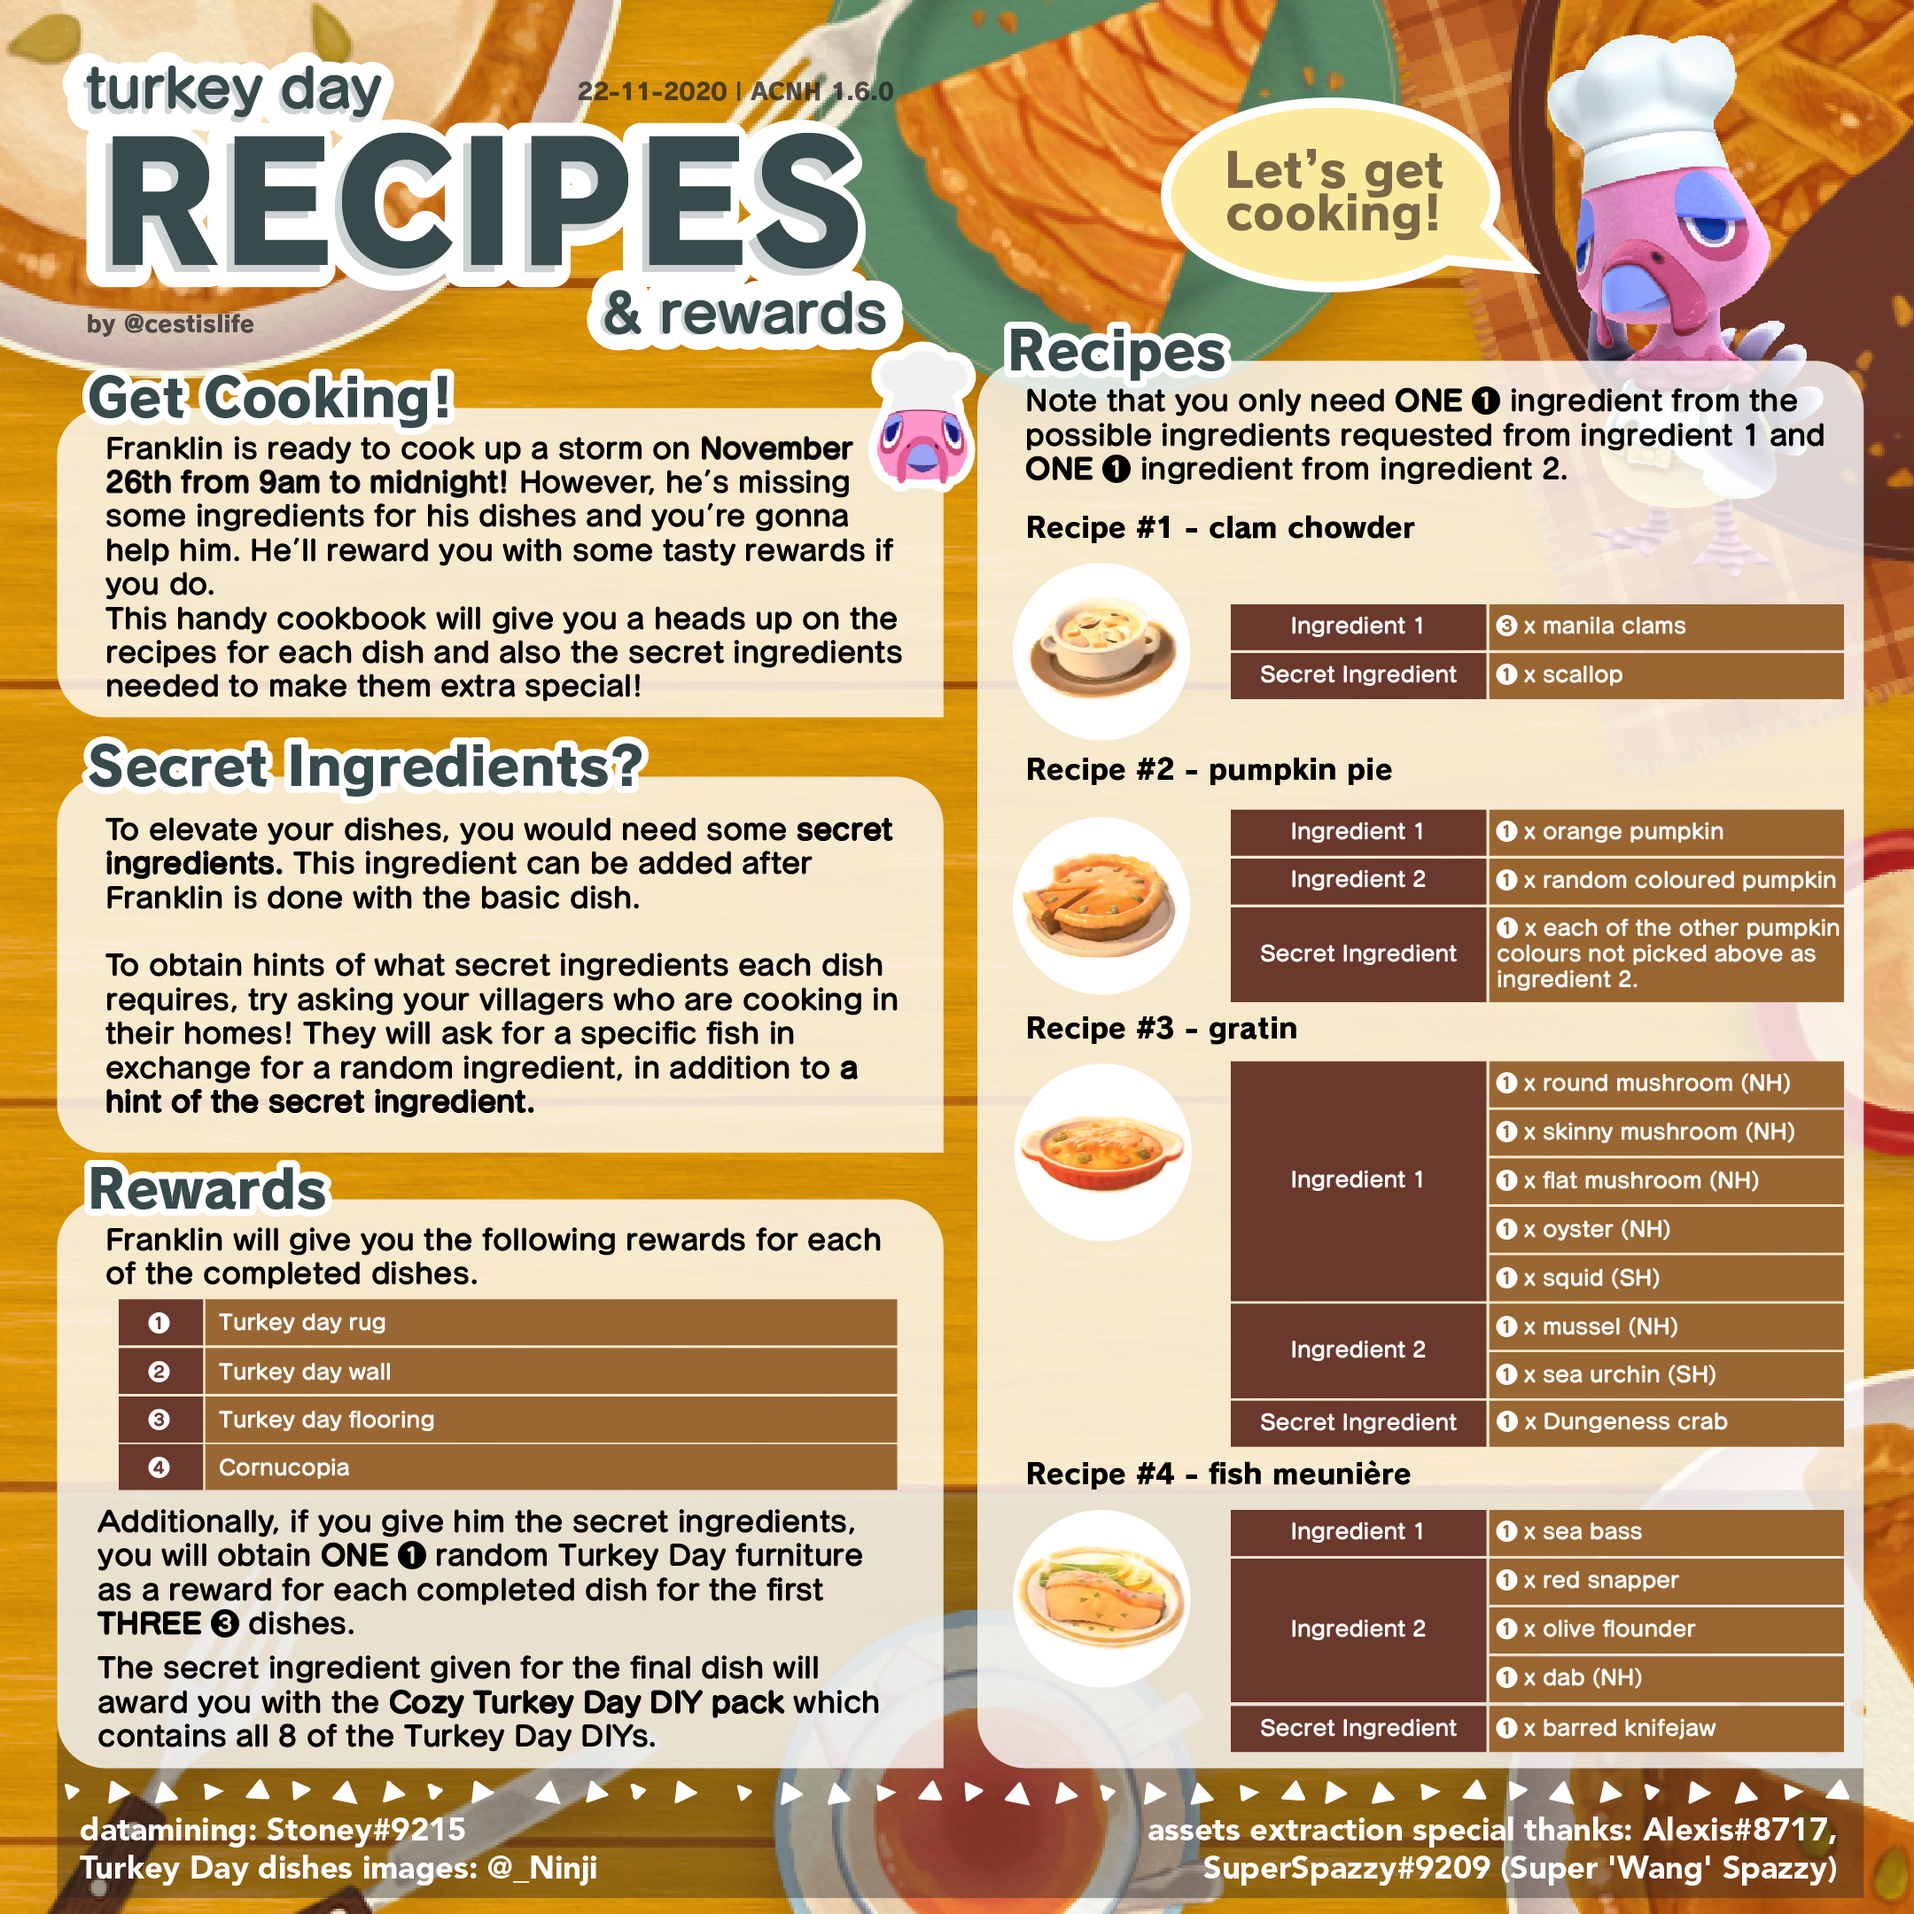
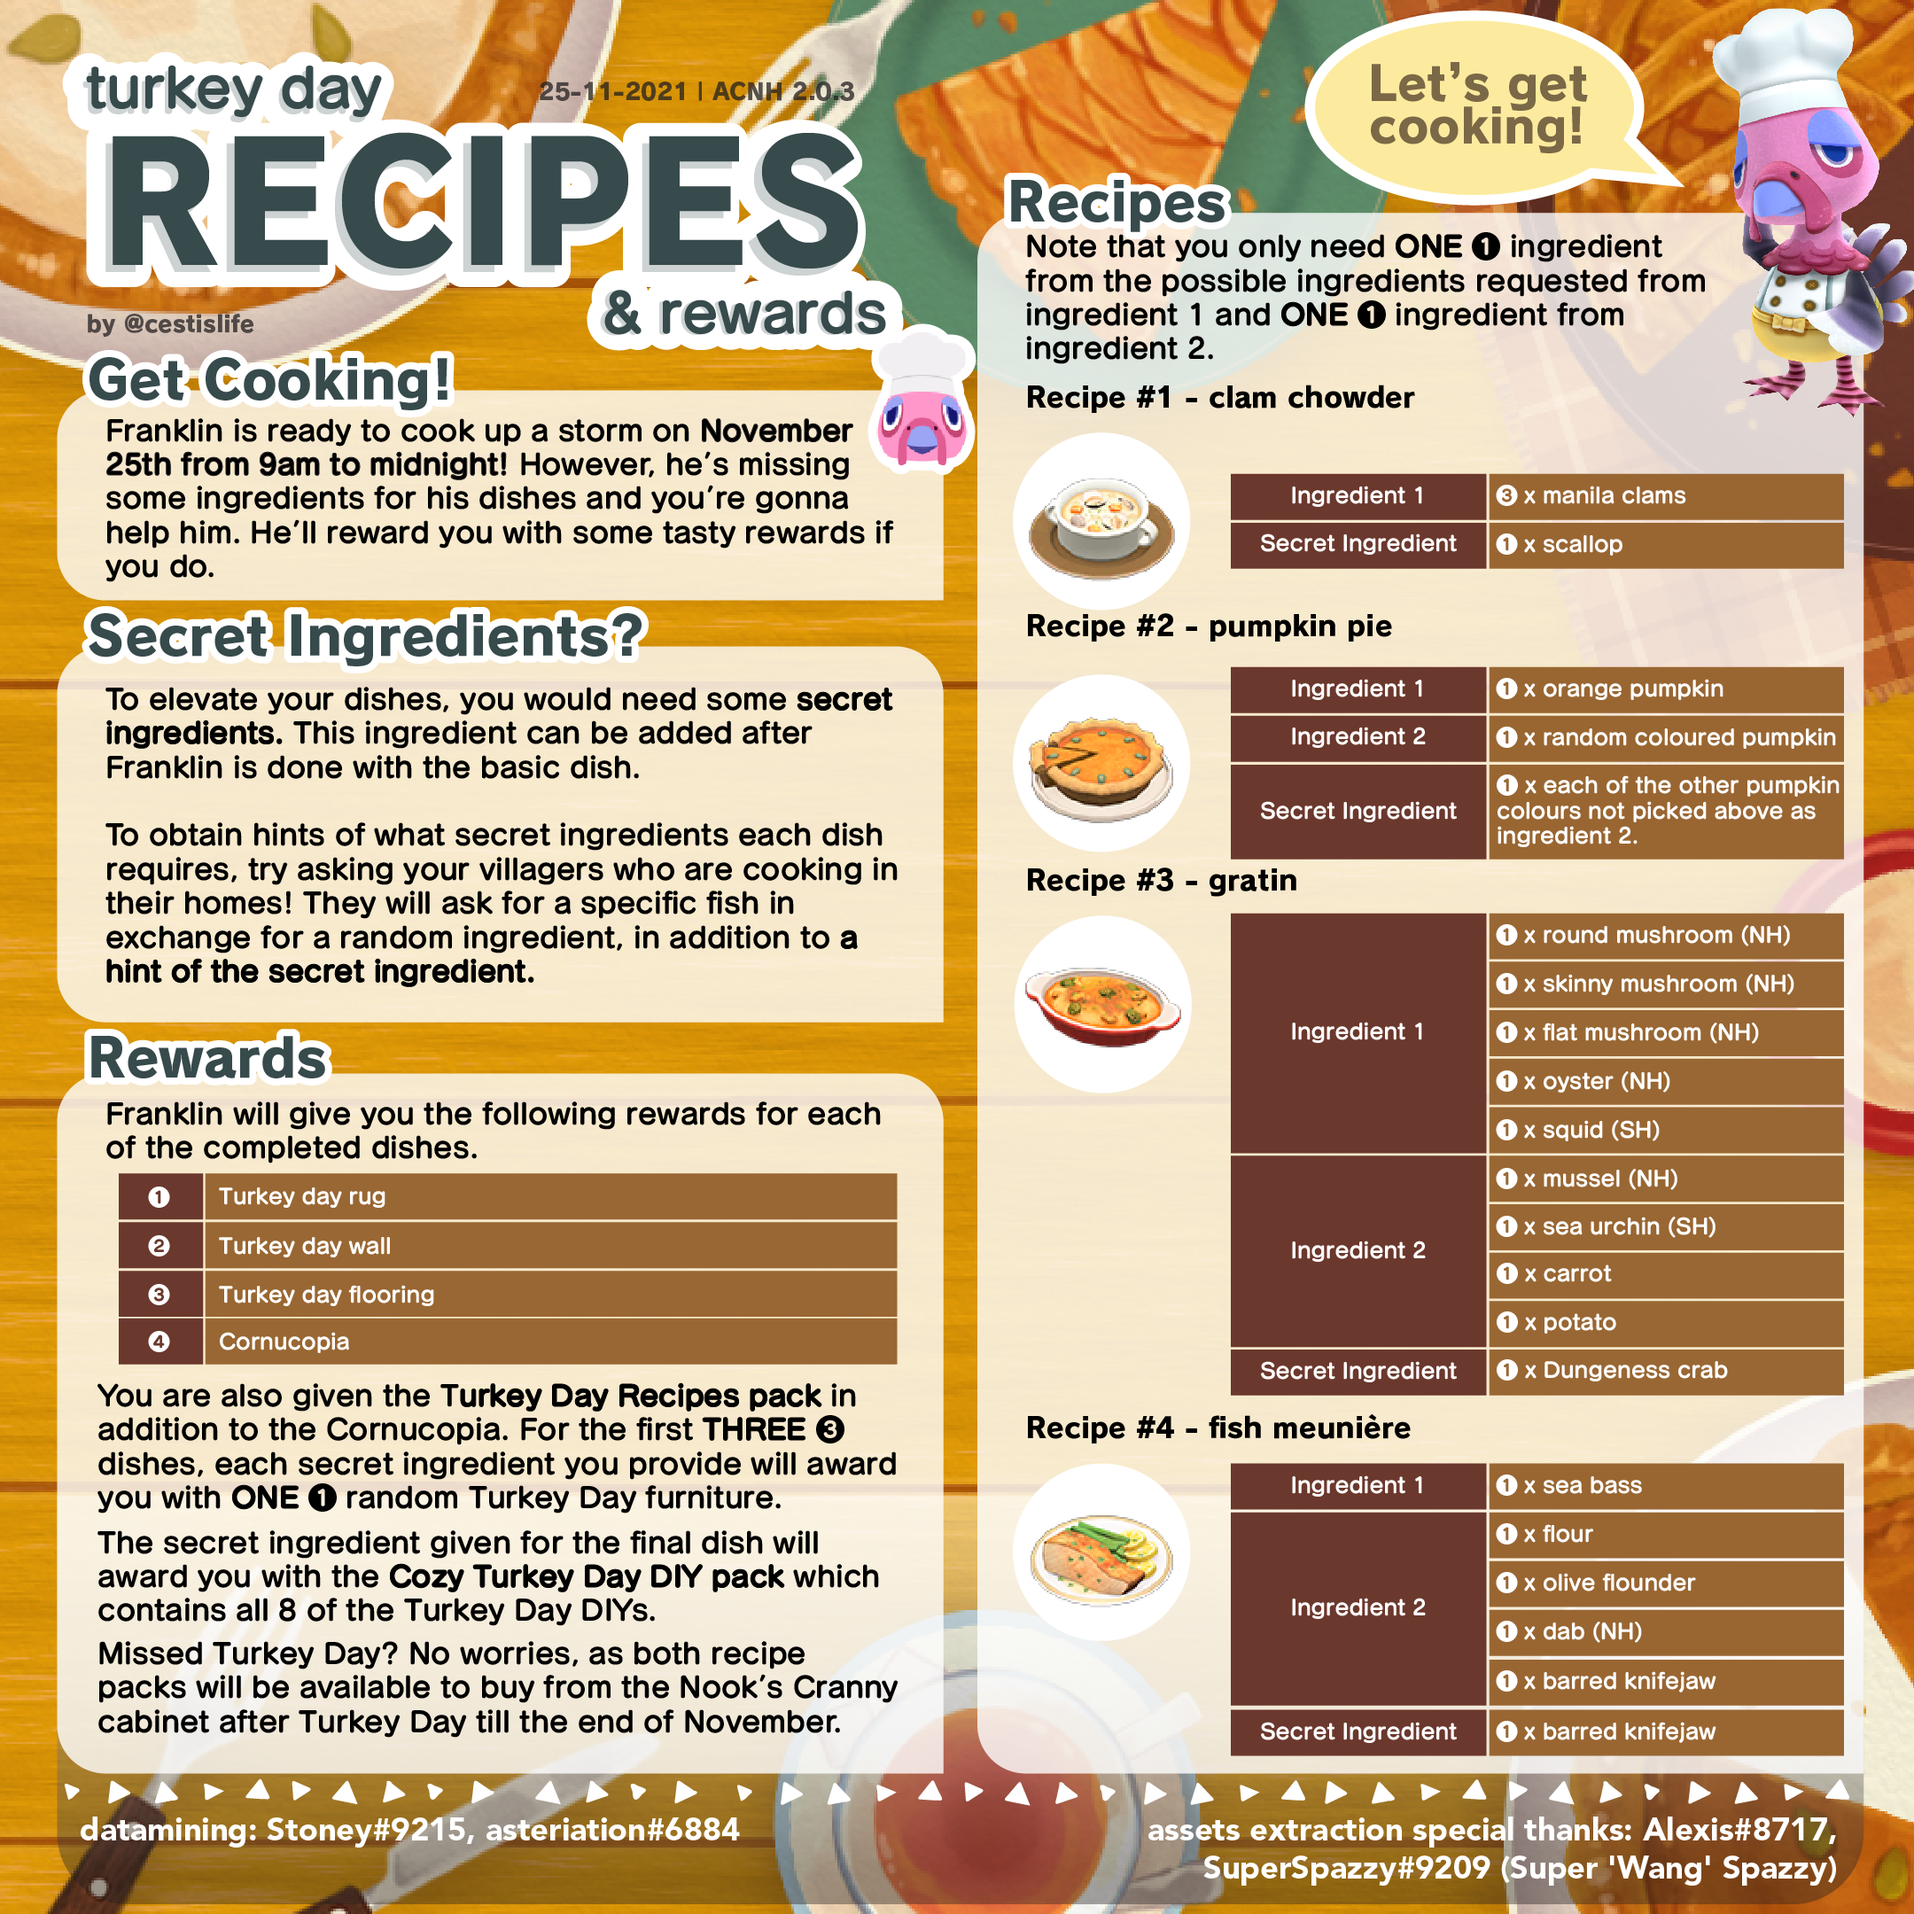
turkey day update

diff --git a/index.md b/index.md
@@ -21,7 +21,7 @@
 * [🦚 Festivale](https://cestislife.github.io/festivale)   
 * [🥚 Bunny Day](https://cestislife.github.io/bunnyday)         
 * [🎄 Toy Day](https://cestislife.github.io/toyday)   
-* [🦃 Turkey Day](https://cestislife.github.io/turkeyday)     
+* [🦃 Turkey Day](https://cestislife.github.io/turkeyday)     *⭐ New! Guide updated to 2.0.3*   
 * [🎃 Halloween](https://cestislife.github.io/halloween)  
 
 ## Misc Guides:
@@ -36,6 +36,8 @@
 <details>
     <summary>Click for more</summary>
 
+> **25/11/2021**   
+> * Updated Turkey Day guide.
 
 > **10/11/2021**   
 > * Added Brewster guide.
